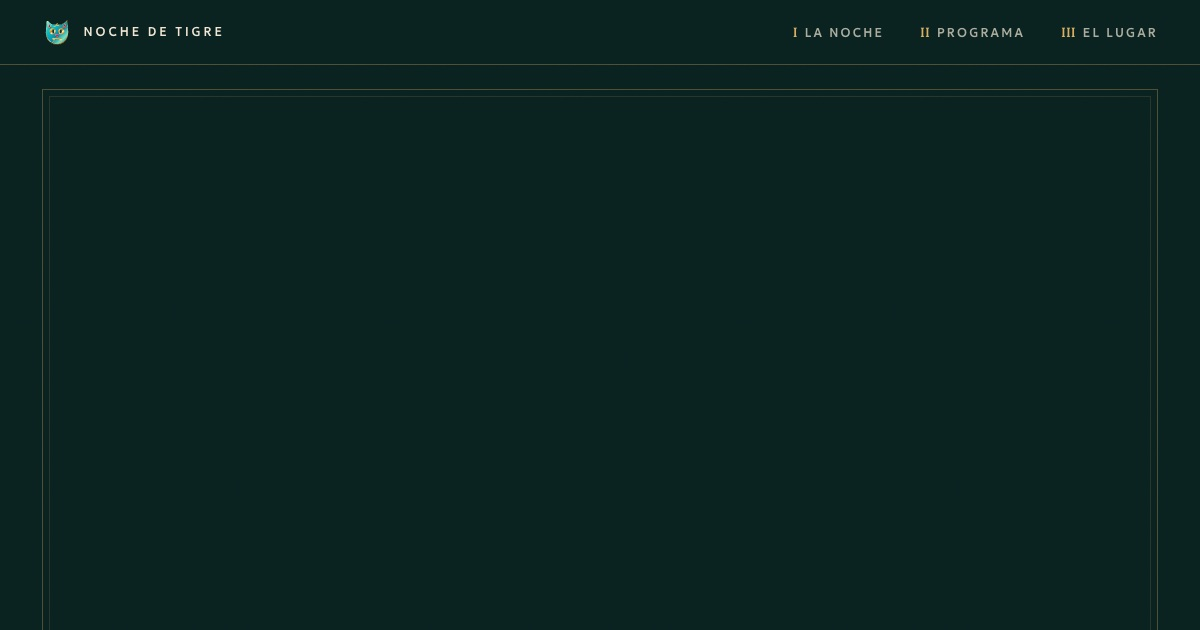
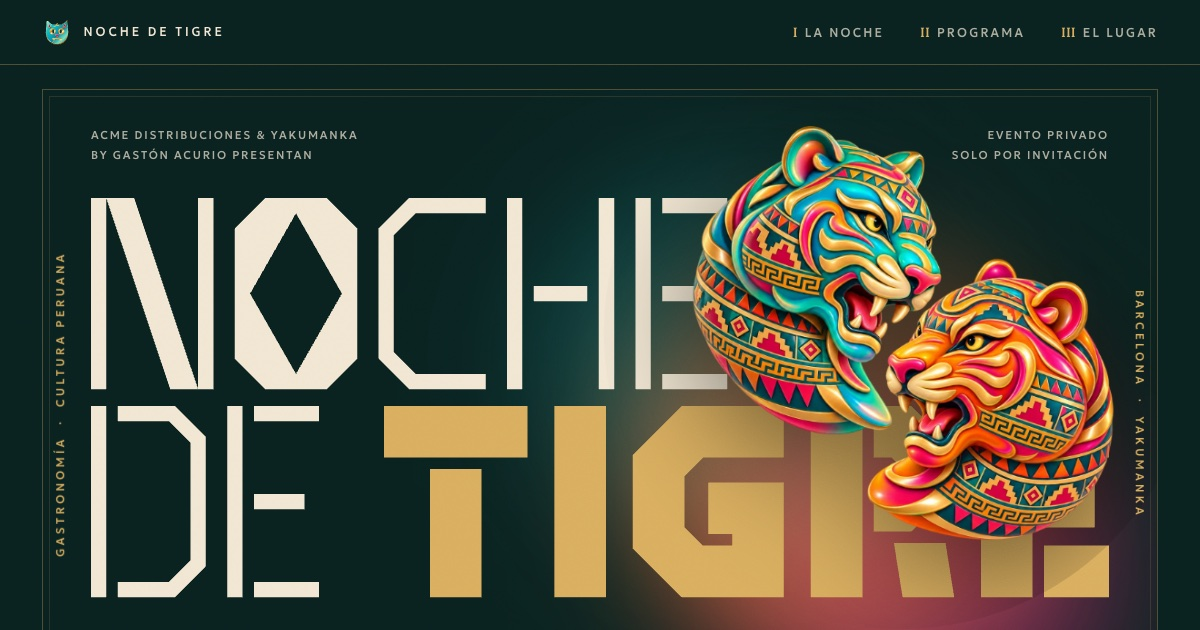
v3: portada a todo el ancho, «DE TIGRE» en una línea con pesos mixtos

diff --git a/v3/assets/styles.css b/v3/assets/styles.css
@@ -200,36 +200,39 @@ em { font-style: italic; }
 .hero__meta { position: relative; z-index: var(--z-3); display: flex; justify-content: space-between; gap: 1rem; font-size: .6875rem; font-weight: 500; letter-spacing: .16em; text-transform: uppercase; line-height: 1.8; color: var(--tinta-suave); }
 .hero__meta-der { text-align: right; }
 
-.hero__escenario { position: relative; display: grid; min-height: clamp(26rem, 58vh, 46rem); }
-@media (max-width: 47.99em) { .hero__escenario { min-height: 132vw; } }
+.hero__escenario { position: relative; display: grid; min-height: clamp(26rem, 60vh, 48rem); }
+@media (max-width: 47.99em) { .hero__escenario { min-height: 112vw; align-content: end; } .hero__titulo { align-self: end; } }
 
-/* Bloque compacto: las dos líneas justificadas al mismo ancho, casi pegadas */
+/* Bloque a todo el ancho: NOCHE / DE TIGRE, misma altura de letra en las dos filas */
 .hero__titulo {
   position: relative;
-  align-self: end;
+  z-index: var(--z-1);
+  align-self: center;
   display: flex;
   flex-direction: column;
-  gap: clamp(.45rem, 1vw, .9rem);
-  width: min(100%, clamp(18rem, 43vw, 42rem));
+  gap: clamp(.5rem, 1.4vw, 1.25rem);
+  width: 100%;
   font-weight: 400;
 }
-.hero__titulo .rotulo__svg { width: 100%; height: auto; }
-.hero__l1 { position: relative; z-index: var(--z-3); color: var(--crema); }
-.hero__l2 { position: relative; z-index: var(--z-1); color: var(--oro); }
+.hero__fila { display: flex; align-items: flex-end; }
+.hero__fila > [data-linea] { display: block; min-width: 0; }
+.hero__fila .rotulo__svg { width: 100%; height: auto; }
+.hero__l1, .hero__de { color: var(--crema); }
+.hero__tigre { color: var(--oro); }
 
 .hero__tigres {
   position: absolute;
   z-index: var(--z-2);
-  right: 0;
-  top: 45%;
-  width: min(39vw, 36rem);
-  translate: 0 -50%;
+  right: 1%;
+  top: 0;
+  width: min(33vw, 32rem);
+  translate: 0 -14%;
 }
-@media (max-width: 47.99em) { .hero__tigres { right: auto; left: 50%; top: 38%; width: 84vw; translate: -50% -50%; } }
+@media (max-width: 47.99em) { .hero__tigres { right: -6%; left: auto; top: 0; width: 78vw; translate: 0 0; } }
 .hero__iris img { width: 100%; filter: drop-shadow(0 30px 50px rgba(0, 0, 0, .5)); }
 
 /* Fogonazo: brasas de luz detrás de los tigres */
-.hero__fuego { position: absolute; z-index: 0; right: 0; top: 50%; width: min(52vw, 46rem); aspect-ratio: 1; translate: 6% -50%; pointer-events: none; }
+.hero__fuego { position: absolute; z-index: 0; right: 0; top: 0; width: min(54vw, 50rem); aspect-ratio: 1; translate: 6% -10%; pointer-events: none; }
 @media (max-width: 47.99em) { .hero__fuego { right: auto; left: 50%; width: 110vw; translate: -50% -50%; } }
 .hero__fuego span { position: absolute; border-radius: 50%; filter: blur(60px); mix-blend-mode: screen; }
 .hero__fuego span:nth-child(1) { inset: 20% 16% 16% 20%; background: #FF6A1A; opacity: .55; }
@@ -254,7 +257,7 @@ em { font-style: italic; }
 /* Entrada de la portada */
 @media (prefers-reduced-motion: no-preference) {
   .js .hero__titulo .glifo path { transform: scaleY(0); transition: transform 1.3s var(--expo); transition-delay: calc(var(--g) * 70ms + .2s); }
-  .js .hero__l2 .glifo path { transition-delay: calc(var(--g) * 90ms + .7s); transition-duration: 1.5s; }
+  .js .hero__tigre .glifo path { transition-delay: calc(var(--g) * 90ms + .7s); transition-duration: 1.5s; }
   .js.listo .hero__titulo .glifo path { transform: none; }
 
   .js .hero__iris { clip-path: circle(0% at 50% 55%); transform: scale(1.1); transition: clip-path 2.2s var(--expo) .3s, transform 2.8s var(--salida) .3s; }

diff --git a/v3/assets/rotulo.js b/v3/assets/rotulo.js
@@ -103,16 +103,17 @@
       x += gl[0] + track;
     });
     var ancho = n(Math.max(x - track, 1));
-    return '<svg class="rotulo__svg" viewBox="0 0 ' + ancho + ' 100" aria-hidden="true" focusable="false">' + cuerpos.join('') + '</svg>';
+    return '<svg class="rotulo__svg" viewBox="0 0 ' + ancho + ' 100" data-ancho="' + ancho + '" aria-hidden="true" focusable="false">' + cuerpos.join('') + '</svg>';
   };
 
   var pintar = function (el, pesoPadre) {
     var texto = el.textContent.replace(/\s+/g, ' ').trim();
     var peso = el.getAttribute('data-peso') || pesoPadre;
+    var dibujo = dibujar(texto + (el.hasAttribute('data-espacio') ? ' ' : ''), peso);
     var oculto = document.createElement('span');
     oculto.className = 'visualmente-oculto';
     oculto.textContent = texto;
-    el.innerHTML = dibujar(texto, peso);
+    el.innerHTML = dibujo;
     el.appendChild(oculto);
   };
 
@@ -125,6 +126,23 @@
       pintar(el, peso);
     }
     el.classList.add('rotulo');
+  });
+
+  /* Bloques [data-bloque]: cada [data-fila] se ajusta para que todas las letras del bloque
+     tengan la misma altura y la fila más larga ocupe el 100 % del ancho. */
+  Array.prototype.slice.call(document.querySelectorAll('[data-bloque]')).forEach(function (bloque) {
+    var filas = Array.prototype.slice.call(bloque.querySelectorAll('[data-fila]'));
+    var sumas = filas.map(function (f) {
+      return Array.prototype.slice.call(f.querySelectorAll('svg[data-ancho]')).reduce(function (t, svg) { return t + Number(svg.getAttribute('data-ancho')); }, 0);
+    });
+    var max = Math.max.apply(null, sumas);
+    filas.forEach(function (f, i) {
+      f.style.width = (sumas[i] / max * 100) + '%';
+      Array.prototype.slice.call(f.querySelectorAll('[data-linea]')).forEach(function (l) {
+        var svg = l.querySelector('svg[data-ancho]');
+        if (svg) { l.style.flex = svg.getAttribute('data-ancho') + ' 1 0'; }
+      });
+    });
   });
 
   window.NOCHE_ROTULO = dibujar;

diff --git a/v3/index.html b/v3/index.html
@@ -31,7 +31,7 @@
   <link rel="stylesheet" href="https://fonts.googleapis.com/css2?family=Geologica:wght@300..700&display=swap">
 
   <link rel="preload" as="image" href="assets/img/tigres.webp" fetchpriority="high">
-  <link rel="stylesheet" href="assets/styles.css?v=31">
+  <link rel="stylesheet" href="assets/styles.css?v=33">
   <script>document.documentElement.classList.add('js');</script>
 
   <script>
@@ -94,9 +94,9 @@
 
           <div class="hero__escenario">
             <div class="hero__fuego" aria-hidden="true"><span></span><span></span><span></span></div>
-            <h1 id="titulo" class="hero__titulo" data-rotulo>
-              <span class="hero__l1" data-linea data-peso="fino">Noche de</span>
-              <span class="hero__l2" data-linea data-peso="negro">Tigre</span>
+            <h1 id="titulo" class="hero__titulo" data-rotulo data-bloque>
+              <span class="hero__fila hero__l1" data-fila><span data-linea data-peso="fino">Noche</span></span>
+              <span class="hero__fila hero__l2" data-fila><span class="hero__de" data-linea data-peso="fino" data-espacio>De</span><span class="hero__tigre" data-linea data-peso="negro">Tigre</span></span>
             </h1>
             <figure class="hero__tigres">
               <div class="hero__iris">
@@ -293,7 +293,7 @@
     </div>
   </footer>
 
-  <script src="assets/rotulo.js?v=4" defer></script>
+  <script src="assets/rotulo.js?v=5" defer></script>
   <script src="assets/main.js?v=2" defer></script>
   <script src="assets/movimiento.js?v=2" defer></script>
 </body>
